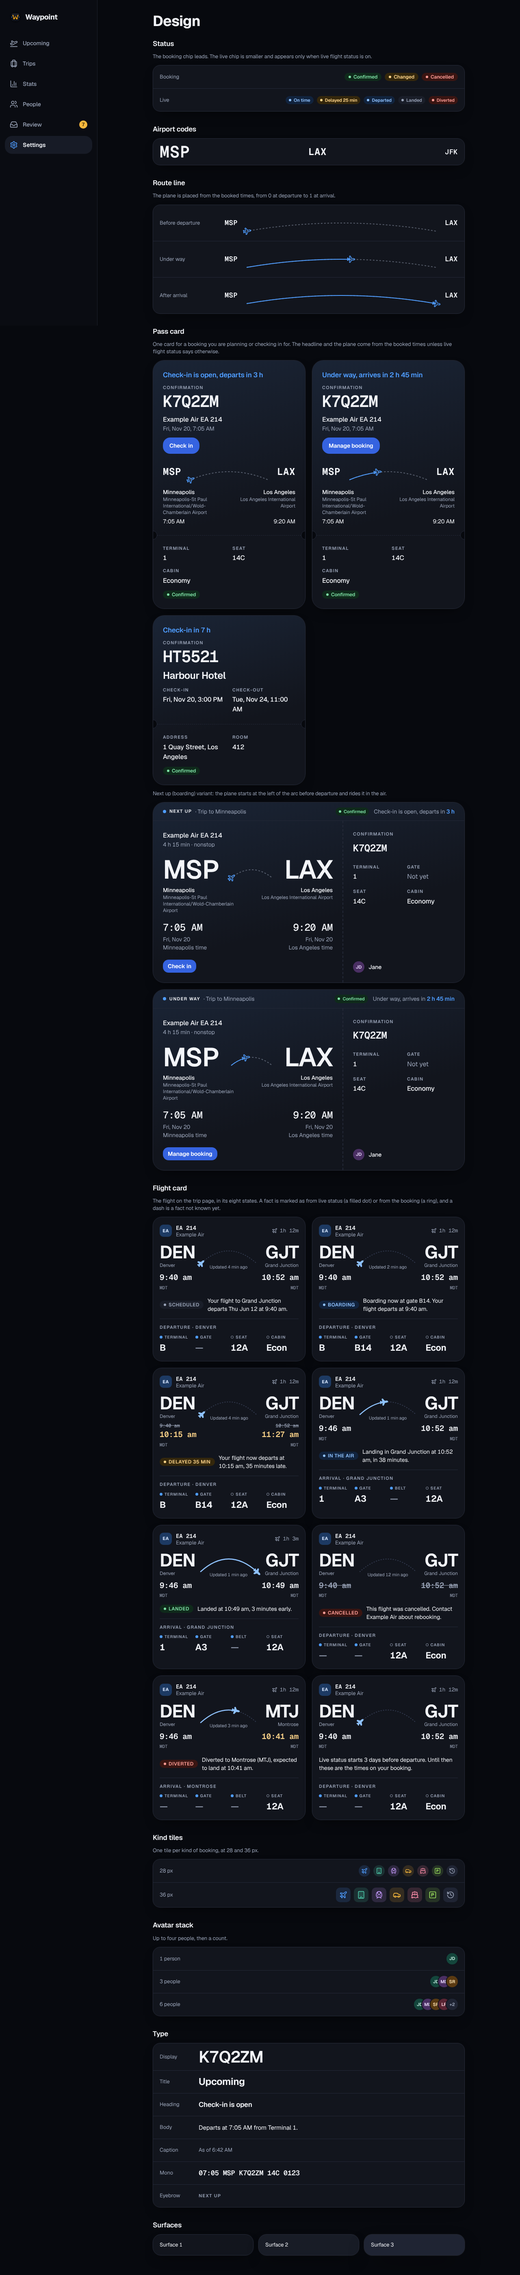
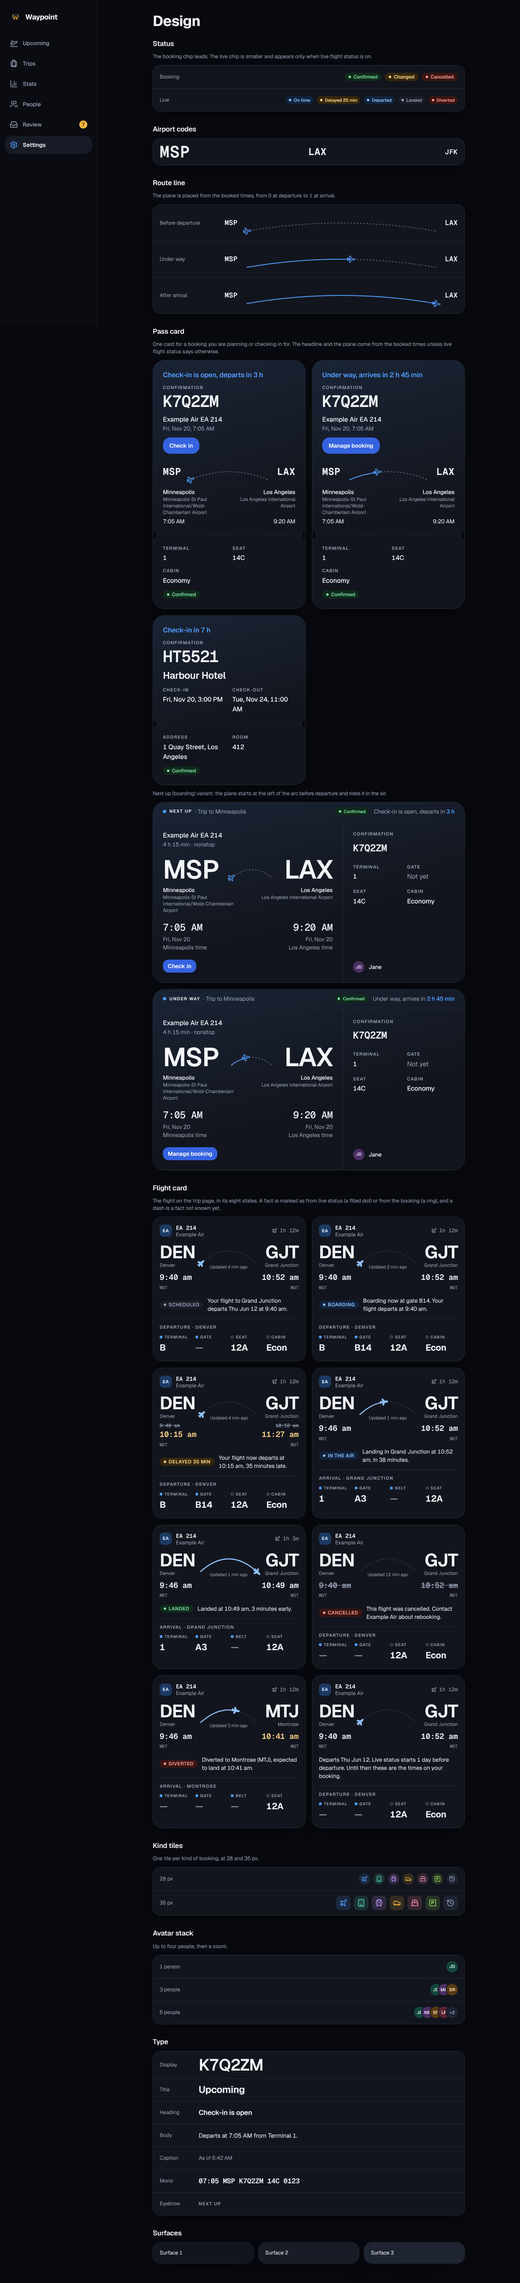
fix: one day for live status, and the card's date, stale status, past trips and paused line
The owner decided the live-status window is one day before departure (LIVE_STATUS_STARTS_DAYS is 1), accepted the boarding proxy, the parts the frames don't draw, and a quiet "Live updates paused" line on the card; the design README records the decisions.

- The no-live-data sentence keeps the departure date ("Departs Thu Jun 12.") before the explanation.
- A stored status over three hours old, or one read while offline, no longer feeds the times, the sentence or boarding: the booked times are used throughout.
- A past trip's pass card gets an empty live override again, so a kept final status adds no live chip, gate or as-of line.
- The card shows "Live updates paused until <time>" with the reason while fetching is paused, whether or not a status is stored.

Claude-Session: https://claude.ai/code/session_01VkTLMaRYAHGUMQLTkxcTjb

diff --git a/docs/design/flights/a-flight-card.html b/docs/design/flights/a-flight-card.html
@@ -232,7 +232,7 @@ body.desk .dev.panel { height: 800px; }
  <div class="route"><div class="ap"><b class="code">DEN</b><span class="city">Denver</span><span class="time ">9:40 am</span><span class="tz">MDT</span></div>
  <div class="arc"><svg aria-hidden="true" viewBox="0 0 100 40" preserveAspectRatio="none"><path d="M2 38 Q50 -16 98 38" fill="none" stroke="#343c52" stroke-width="2" stroke-linecap="round" stroke-dasharray="1 5" vector-effect="non-scaling-stroke"></path><path d="M2 38 Q50 -16 98 38" pathLength="100" fill="none" stroke="#8fc2ff" stroke-width="2.5" stroke-linecap="round" stroke-dasharray="0 100" vector-effect="non-scaling-stroke"></path></svg><span class="plane" aria-hidden="true" style="left:3.9%;top:41.3px;transform:translate(-50%,-50%) rotate(50deg)"><svg class="ic" aria-hidden="true" viewBox="0 0 24 24" style="width:20px;height:20px;fill:currentColor;stroke:none"><path d="M21 16v-2l-8-5V3.5a1.5 1.5 0 0 0-3 0V9l-8 5v2l8-2.5V19l-2 1.5V22l3.5-1 3.5 1v-1.5L13 19v-5.5z"></path></svg></span></div>
  <div class="ap r"><b class="code">GJT</b><span class="city">Grand Junction</span><span class="time ">10:52 am</span><span class="tz">MDT</span></div></div>
- <div class="status"><p>Live status starts 3 days before departure. Until then these are the times on your booking.</p></div>
+ <div class="status"><p>Live status starts 1 day before departure. Until then these are the times on your booking.</p></div>
  <div style="display:flex;flex-direction:column;gap:8px;border-top:1px solid var(--border);padding-top:12px"><span class="eyebrow">Departure · Denver</span><dl class="facts"><div><dt><i class="src live" role="img" aria-label="From live status"></i>Terminal</dt><dd class="na"><span aria-hidden="true">—</span><span class="sr">Not known yet</span></dd></div><div><dt><i class="src live" role="img" aria-label="From live status"></i>Gate</dt><dd class="na"><span aria-hidden="true">—</span><span class="sr">Not known yet</span></dd></div><div><dt><i class="src book" role="img" aria-label="From the booking"></i>Seat</dt><dd class="">12A</dd></div><div><dt><i class="src book" role="img" aria-label="From the booking"></i>Cabin</dt><dd class="">Econ</dd></div></dl></div></article></div></div></figure><figure class="fig" data-w="desk"><figcaption>a3 · Desktop: the same eight cards, two across</figcaption><div class="dev frag"><div class="board wide" style="padding:28px 32px;gap:18px"><div class="legend"><span><i class="src live" role="img" aria-label="From live status"></i>From live status</span><span><i class="src book" role="img" aria-label="From the booking"></i>From the booking</span><span class="mono">— not known yet</span></div><div class="deskgrid"><article class="fc" aria-label="EA 214, Denver to Grand Junction, scheduled, departs Thu Jun 12 at 9:40 am"><div class="fc-top"><span class="mark" aria-hidden="true">EA</span><span><b class="num">EA 214</b><span class="meta" style="display:block;line-height:1.1">Example Air</span></span><span class="dur"><svg class="ic" aria-hidden="true" viewBox="0 0 24 24" style="width:14px;height:14px"><path d="M21 16v-2l-8-5V3.5a1.5 1.5 0 0 0-3 0V9l-8 5v2l8-2.5V19l-2 1.5V22l3.5-1 3.5 1v-1.5L13 19v-5.5z" style="transform:rotate(90deg);transform-origin:12px 12px"></path></svg>1h 12m</span></div>
  <div class="route"><div class="ap"><b class="code">DEN</b><span class="city">Denver</span><span class="time ">9:40 am</span><span class="tz">MDT</span></div>
  <div class="arc"><svg aria-hidden="true" viewBox="0 0 100 40" preserveAspectRatio="none"><path d="M2 38 Q50 -16 98 38" fill="none" stroke="#343c52" stroke-width="2" stroke-linecap="round" stroke-dasharray="1 5" vector-effect="non-scaling-stroke"></path><path d="M2 38 Q50 -16 98 38" pathLength="100" fill="none" stroke="#8fc2ff" stroke-width="2.5" stroke-linecap="round" stroke-dasharray="0 100" vector-effect="non-scaling-stroke"></path></svg><span class="plane" aria-hidden="true" style="left:3.9%;top:41.3px;transform:translate(-50%,-50%) rotate(61deg)"><svg class="ic" aria-hidden="true" viewBox="0 0 24 24" style="width:20px;height:20px;fill:currentColor;stroke:none"><path d="M21 16v-2l-8-5V3.5a1.5 1.5 0 0 0-3 0V9l-8 5v2l8-2.5V19l-2 1.5V22l3.5-1 3.5 1v-1.5L13 19v-5.5z"></path></svg></span><span class="upd">Updated 4 min ago</span></div>
@@ -272,7 +272,7 @@ body.desk .dev.panel { height: 800px; }
  <div class="route"><div class="ap"><b class="code">DEN</b><span class="city">Denver</span><span class="time ">9:40 am</span><span class="tz">MDT</span></div>
  <div class="arc"><svg aria-hidden="true" viewBox="0 0 100 40" preserveAspectRatio="none"><path d="M2 38 Q50 -16 98 38" fill="none" stroke="#343c52" stroke-width="2" stroke-linecap="round" stroke-dasharray="1 5" vector-effect="non-scaling-stroke"></path><path d="M2 38 Q50 -16 98 38" pathLength="100" fill="none" stroke="#8fc2ff" stroke-width="2.5" stroke-linecap="round" stroke-dasharray="0 100" vector-effect="non-scaling-stroke"></path></svg><span class="plane" aria-hidden="true" style="left:3.9%;top:41.3px;transform:translate(-50%,-50%) rotate(61deg)"><svg class="ic" aria-hidden="true" viewBox="0 0 24 24" style="width:20px;height:20px;fill:currentColor;stroke:none"><path d="M21 16v-2l-8-5V3.5a1.5 1.5 0 0 0-3 0V9l-8 5v2l8-2.5V19l-2 1.5V22l3.5-1 3.5 1v-1.5L13 19v-5.5z"></path></svg></span></div>
  <div class="ap r"><b class="code">GJT</b><span class="city">Grand Junction</span><span class="time ">10:52 am</span><span class="tz">MDT</span></div></div>
- <div class="status"><p>Live status starts 3 days before departure. Until then these are the times on your booking.</p></div>
+ <div class="status"><p>Live status starts 1 day before departure. Until then these are the times on your booking.</p></div>
  <div style="display:flex;flex-direction:column;gap:8px;border-top:1px solid var(--border);padding-top:12px"><span class="eyebrow">Departure · Denver</span><dl class="facts"><div><dt><i class="src live" role="img" aria-label="From live status"></i>Terminal</dt><dd class="na"><span aria-hidden="true">—</span><span class="sr">Not known yet</span></dd></div><div><dt><i class="src live" role="img" aria-label="From live status"></i>Gate</dt><dd class="na"><span aria-hidden="true">—</span><span class="sr">Not known yet</span></dd></div><div><dt><i class="src book" role="img" aria-label="From the booking"></i>Seat</dt><dd class="">12A</dd></div><div><dt><i class="src book" role="img" aria-label="From the booking"></i>Cabin</dt><dd class="">Economy</dd></div></dl></div></article></div></div></div></figure></div></div>
     <div class="spec"><div><h3>Accessible names</h3><ul><li>Each card is an <code>article</code> named in one phrase with the flight, route and state: <q>EA 214, Denver to Grand Junction, delayed 35 minutes, now departs 10:15 am</q>.</li><li>The arc, the plane marker and the Waypoint mark tile are decorative (<code>aria-hidden</code>); the progress is in the sentence (<q>Landing in Grand Junction at 10:52 am, in 38 minutes</q>).</li><li>Each fact is a term and a value in a <code>dl</code>. The source dot is an image named <q>From live status</q> or <q>From the booking</q>; an unknown value reads <q>Not known yet</q> (the dash is hidden from the reader).</li><li>A struck-through time reads <q>Originally 9:40 am</q> before the new time. The status pill is text, not colour alone.</li><li><q>Updated 4 min ago</q> is plain text between the times; when there is no live data it is not rendered.</li></ul></div><div><h3>Tokens and components</h3><ul><li>Card: <code>rounded-[22px] border border-border bg-card shadow-card</code>, the same as the trip cards. Codes <code>38px/44px</code> semibold, tracking <code>-0.03em</code>; times and flight number in Geist Mono.</li><li>Status pill: <code>StatusChip</code> tones: quiet (Scheduled, no live data), info (Boarding, In the air), warn (Delayed, amber <code>--signal-ink</code> times), ok (Landed), bad (Cancelled, Diverted).</li><li>Mark tile: Waypoint's own mark with the flight's two-letter carrier code in <code>--avatar-1</code>, never an airline logo. Source dots: filled <code>--primary</code> for live status, a hollow <code>--muted-foreground</code> ring for the booking.</li><li>No new token. Dark only.</li></ul></div><div><h3>Replaces</h3><ul><li>The flight view of <code>frontend/src/lib/components/PassCard.svelte</code> on the trip page and the <code>FlightStatus.svelte</code> block it renders (the <code>Terminal X · Gate Y</code> lines and the Refresh button).</li><li>Gate, terminal and belt come from the status the app already carries (<code>dep_gate</code>, <code>arr_gate</code>, <code>dep_terminal</code>, <code>arr_terminal</code>); where a value is not held the card shows a dash. Seat and cabin stay the booking's (<code>details</code>).</li><li>A trip that is over keeps the completed-trip designs (<a href="../trips/README.md">trips README</a>): gate and live status stay hidden there; whether the card stays after landing is an open question in the README.</li></ul></div></div>
   </section>

diff --git a/frontend/src/lib/components/FlightCard.svelte.test.ts b/frontend/src/lib/components/FlightCard.svelte.test.ts
@@ -66,7 +66,7 @@ const CASES: Case[] = [
     pill: "Diverted", sentence: "Diverted to Montrose (MTJ), expected to land at 10:41 am.", times: ["9:46 am", "10:41 am"], updated: "Updated 3 min ago",
     facts: [["Terminal", "—Not known yet"], ["Gate", "—Not known yet"], ["Belt", "—Not known yet"], ["Seat", "12A"]] },
   { name: "scheduled with no live data", now: NOW.none, label: "EA 214, Denver to Grand Junction, scheduled, no live status yet", pill: null,
-    sentence: "Live status starts 3 days before departure. Until then these are the times on your booking.", times: ["9:40 am", "10:52 am"], updated: null,
+    sentence: "Departs Thu Jun 12. Live status starts 1 day before departure. Until then these are the times on your booking.", times: ["9:40 am", "10:52 am"], updated: null,
     facts: [["Terminal", "—Not known yet"], ["Gate", "—Not known yet"], ["Seat", "12A"], ["Cabin", "EconEconomy"]] },
 ];
 
@@ -211,16 +211,16 @@ describe("the four facts", () => {
 
 describe("what the card says without live data", () => {
   it("has no Updated line and no pill, and names the window as a constant", async () => {
-    expect(LIVE_STATUS_STARTS_DAYS).toBe(3);
+    expect(LIVE_STATUS_STARTS_DAYS).toBe(1);
     draw(CASES[7]);
     const card = await screen.findByRole("article");
     expect(card.querySelector("[data-updated]")).toBeNull();
     expect(card.querySelector("[data-tone]")).toBeNull();
-    expect(within(card).getByText(/^Live status starts 3 days before departure\./)).toBeInTheDocument();
+    expect(within(card).getByText(/^Departs Thu Jun 12\. Live status starts 1 day before departure\./)).toBeInTheDocument();
   });
 
   it("says Scheduled instead once the flight is inside the window, with nothing invented", async () => {
-    draw({ now: at("2025-06-10T09:40") });
+    draw({ now: at("2025-06-11T12:00") });
     const card = await screen.findByRole("article");
     expect(within(card).getByText("Scheduled")).toBeInTheDocument();
     expect(card.querySelector("[data-updated]")).toBeNull();
@@ -248,6 +248,44 @@ describe("what the card says without live data", () => {
   it("puts the day on a landed flight from an earlier day", async () => {
     draw({ now: at("2025-06-14T09:00") });
     expect(within(await screen.findByRole("article")).getByText("Landed Thu Jun 12 at 10:52 am.")).toBeInTheDocument();
+  });
+});
+
+describe("a stored status that is too old to trust", () => {
+  it("shows the booked times and sentence, not the old estimate, when it is over three hours old", async () => {
+    const old = status(at("2025-06-12T11:00"), 300, { state: "delayed", dep_estimated: "2025-06-12T10:15", arr_estimated: "2025-06-12T11:27", delay_minutes: 35 });
+    draw({ now: at("2025-06-12T11:00"), status: old });
+    const card = await screen.findByRole("article");
+    expect(within(card).getByText("Landed at 10:52 am.")).toBeInTheDocument();
+    expect(times(card)).toEqual(["9:40 am MDT", "10:52 am MDT"]);
+    expect(card.textContent).not.toContain("11:27");
+    expect(within(card).getByText("Updated 5 h ago")).toBeInTheDocument();
+  });
+
+  it("does the same when the device is offline", async () => {
+    draw({ now: NOW.delayed, status: CASES[2].status }, { online: false });
+    const card = await screen.findByRole("article");
+    expect(times(card)).toEqual(["9:40 am MDT", "10:52 am MDT"]);
+    expect(card.textContent).not.toMatch(/Originally|Delayed/);
+  });
+});
+
+describe("when live updates are paused", () => {
+  it("says so in one quiet line, with or without a stored status, and says nothing otherwise", async () => {
+    const until = new Date(Date.UTC(2025, 5, 13, 15, 30)).toISOString();
+    const first = draw(CASES[0], { paused: { until, reason: "rate" } });
+    let card = await screen.findByRole("article");
+    expect(card.querySelector("[data-paused]")).toHaveAttribute("role", "status");
+    expect(card.querySelector("[data-paused]")).toHaveTextContent(/^Live updates paused until .+ \(rate limit\)$/);
+    first.unmount();
+    draw(CASES[7], { paused: { until, reason: "limit" } });
+    card = await screen.findByRole("article");
+    expect(card.querySelector("[data-paused]")).toHaveTextContent(/\(monthly limit\)$/);
+  });
+
+  it("shows no line when nothing is paused", async () => {
+    draw(CASES[0]);
+    expect((await screen.findByRole("article")).querySelector("[data-paused]")).toBeNull();
   });
 });
 

diff --git a/frontend/src/lib/flightcard.ts b/frontend/src/lib/flightcard.ts
@@ -1,8 +1,8 @@
-import type { FlightStatus, Segment } from "./api-types";
+import type { FlightStatus, FlightStatusPause, Segment } from "./api-types";
 import { liveChip, type Chip } from "./status";
-import { clock, dayIn, dayLabel, daysBetween, dayShiftWords, flightEvidence, flightProgress, instant, seatsInOrder } from "./trips";
+import { clock, dayIn, dayLabel, daysBetween, dayShiftWords, flightEvidence, flightProgress, instant, LIVE_STALE_HOURS, seatsInOrder } from "./trips";
 
-export const LIVE_STATUS_STARTS_DAYS = 3;
+export const LIVE_STATUS_STARTS_DAYS = 1;
 export const BOARDING_MINUTES = 40;
 
 const DAY_MS = 86_400_000;
@@ -111,16 +111,20 @@ export function flightCardView(input: FlightCardInput): FlightCardView {
   const bookedDep = instant(s.start_local, s.start_zone);
   const bookedArr = instant(s.end_local, s.end_zone);
   const evidence = s.status === "cancelled" ? "cancelled" : flightEvidence(st, now, online);
-  const liveDep = st ? st.dep_actual ?? st.dep_estimated : null;
-  const liveArr = st ? st.arr_actual ?? st.arr_estimated : null;
+  const FINAL = ["landed", "cancelled", "diverted"];
+  const fetched = st ? Date.parse(st.fetched_at) : NaN;
+  const stale = !!st && !FINAL.includes(st.state) && (!online || Number.isNaN(fetched) || now - fetched > LIVE_STALE_HOURS * 3_600_000);
+  const fresh = stale ? undefined : st;
+  const liveDep = fresh ? fresh.dep_actual ?? fresh.dep_estimated : null;
+  const liveArr = fresh ? fresh.arr_actual ?? fresh.arr_estimated : null;
   const depLocal = liveDep ?? s.start_local;
-  const depZone = liveDep && st ? st.dep_zone : s.start_zone;
+  const depZone = liveDep && fresh ? fresh.dep_zone : s.start_zone;
   const arrLocal = liveArr ?? s.end_local;
-  const arrZone = liveArr && st ? st.arr_zone : s.end_zone;
+  const arrZone = liveArr && fresh ? fresh.arr_zone : s.end_zone;
   const depAt = instant(depLocal, depZone);
   const arrAt = instant(arrLocal, arrZone);
 
-  const gate = st?.dep_gate ?? null;
+  const gate = fresh?.dep_gate ?? null;
   const state: CardState = (() => {
     if (evidence === "cancelled") return "cancelled";
     if (evidence === "diverted") return "diverted";
@@ -129,7 +133,7 @@ export function flightCardView(input: FlightCardInput): FlightCardView {
     if (evidence === "delayed") return "delayed";
     if (now >= bookedArr) return "landed";
     if (now >= bookedDep) return "in-the-air";
-    if (st && gate && now >= depAt - BOARDING_MINUTES * MINUTE_MS && now < depAt) return "boarding";
+    if (fresh && gate && now >= depAt - BOARDING_MINUTES * MINUTE_MS && now < depAt) return "boarding";
     return "scheduled";
   })();
 
@@ -171,7 +175,7 @@ export function flightCardView(input: FlightCardInput): FlightCardView {
   const delayWords = lateBy ? `, ${plural(lateBy, "minute")} late` : "";
 
   const sentence = (() => {
-    if (noLive) return `Live status starts ${plural(LIVE_STATUS_STARTS_DAYS, "day")} before departure. Until then these are the times on your booking.`;
+    if (noLive) return `Departs ${shortDay(depLocal)}. Live status starts ${plural(LIVE_STATUS_STARTS_DAYS, "day")} before departure. Until then these are the times on your booking.`;
     switch (state) {
       case "scheduled": return `Your flight to ${whereTo} departs ${shortDay(depLocal)} at ${depart.time}.`;
       case "boarding": return `Boarding now at gate ${gate}. Your flight departs at ${depart.time}.`;
@@ -264,4 +268,12 @@ export function arcTravelled(progress: number): string {
   const round = (n: number) => Math.round(n * 100) / 100;
   const end = { x: a * ARC.x0 + b * ARC.x1 + c * ARC.x2, y: a * ARC.y0 + b * ARC.y1 + c * ARC.y2 };
   return `M${ARC.x0} ${ARC.y0} Q${round(ARC.x0 + t * (ARC.x1 - ARC.x0))} ${round(ARC.y0 + t * (ARC.y1 - ARC.y0))} ${round(end.x)} ${round(end.y)}`;
+}
+
+export function pausedWords(p: FlightStatusPause): string {
+  const until = new Date(p.until);
+  if (Number.isNaN(until.getTime())) return "Live updates paused";
+  if (p.reason === "limit") return `Live updates paused until ${until.toLocaleDateString(undefined, { month: "short", day: "numeric" })} (monthly limit)`;
+  const time = new Intl.DateTimeFormat(undefined, { hour: "numeric", minute: "2-digit" }).format(until);
+  return `Live updates paused until ${time} (${p.reason === "rate" ? "rate limit" : "the status service didn’t accept the key"})`;
 }

diff --git a/frontend/src/lib/components/FlightCard.svelte b/frontend/src/lib/components/FlightCard.svelte
@@ -1,14 +1,14 @@
 <script lang="ts">
   import type { Snippet } from "svelte";
   import Plane from "@lucide/svelte/icons/plane";
-  import type { FlightStatus, Segment } from "$lib/api-types";
+  import type { FlightStatus, FlightStatusPause, Segment } from "$lib/api-types";
   import { airportInfo } from "$lib/airport-zones";
   import StatusChip from "$lib/components/StatusChip.svelte";
   import { headline } from "$lib/trips";
-  import { arcHeading, arcPoint, arcTravelled, flightCardView, type Stamp } from "$lib/flightcard";
+  import { arcHeading, arcPoint, arcTravelled, flightCardView, pausedWords, type Stamp } from "$lib/flightcard";
 
-  type Props = { segment: Segment; status?: FlightStatus; liveOn?: boolean; now?: number; online?: boolean; highlight?: boolean; level?: 2 | 3; footer?: Snippet };
-  let { segment, status, liveOn = false, now = Date.now(), online = true, highlight = false, level = 2, footer }: Props = $props();
+  type Props = { segment: Segment; status?: FlightStatus; liveOn?: boolean; now?: number; online?: boolean; highlight?: boolean; level?: 2 | 3; paused?: FlightStatusPause | null; footer?: Snippet };
+  let { segment, status, liveOn = false, now = Date.now(), online = true, highlight = false, level = 2, paused = null, footer }: Props = $props();
 
   let cities = $state<Record<string, string>>({});
   $effect(() => {
@@ -79,6 +79,8 @@
     {#if view.pill}<StatusChip chip={view.pill} class="uppercase tracking-[0.04em]" />{/if}
     <p class="min-w-0 flex-[1_1_180px] text-sm" data-sentence>{view.sentence}</p>
   </div>
+
+  {#if paused}<p class="text-xs text-muted-foreground" role="status" data-paused>{pausedWords(paused)}</p>{/if}
 
   <div class="flex flex-col gap-2 border-t border-border pt-3">
     <span class="eyebrow">{view.side}{sideCity ? ` · ${sideCity}` : ""}</span>

diff --git a/frontend/src/pages/Trip.svelte b/frontend/src/pages/Trip.svelte
@@ -337,7 +337,7 @@
       {@const s = card.lead}
       {#if flightCard(card)}
         <li id={`segment-${s.id}`} class="scroll-mt-20" data-flight-card>
-          <FlightCard segment={s} status={liveOn ? statusFor(s.id) : undefined} {liveOn} {now} online={typeof navigator === "undefined" || navigator.onLine !== false} highlight={wanted === String(s.id)}>
+          <FlightCard segment={s} status={liveOn ? statusFor(s.id) : undefined} {liveOn} {now} online={typeof navigator === "undefined" || navigator.onLine !== false} highlight={wanted === String(s.id)} paused={liveOn ? flightStatus.list?.paused : null}>
             {#snippet footer()}
               {#if card.segments.length === 1}
                 {@render flightBooking(s)}
@@ -354,6 +354,7 @@
         <PassCard as="li" id={`segment-${s.id}`} highlight={wanted === String(s.id)} segment={s} {now} level={2} eyebrow={eyebrowOf(s)} showApp={false} omit={omitted(s)}>
           {#snippet times()}<dl class="grid grid-cols-1 gap-3 text-sm sm:grid-cols-2">{@render timeRows(s)}</dl>{/snippet}
           {#snippet details()}{@render ports(s)}{@render links(s)}{/snippet}
+          {#snippet live()}{/snippet}
           {#snippet footer()}
             {@render singleFooter(s)}
           {/snippet}
@@ -368,6 +369,7 @@
               <dl class="grid grid-cols-1 gap-3 text-sm sm:grid-cols-2">{@render timeRows(s)}</dl>
             {/if}
           {/snippet}
+          {#snippet live()}{/snippet}
           {#snippet footer()}
             {@render multiFooter(card)}
           {/snippet}

diff --git a/frontend/src/pages/Trip.svelte.test.ts b/frontend/src/pages/Trip.svelte.test.ts
@@ -73,6 +73,18 @@ describe("Trip", () => {
     expect(within(cards[1]).queryByText(/Updated /)).toBeNull();
   });
 
+  it("says when live updates are paused on the flight card, with no status stored for it", async () => {
+    vi.useFakeTimers({ toFake: ["Date"] });
+    vi.setSystemTime(Date.UTC(2026, 10, 20, 14, 30));
+    const answer = vi.mocked(api).getMockImplementation()!;
+    const paused = { ...delayed, statuses: [], paused: { until: "2026-12-01T00:00:00+00:00", reason: "limit" } };
+    vi.mocked(api).mockImplementation(async (path, opts) => (path === "/api/flight-status" ? paused : answer(path, opts)) as never);
+    render(TripPage);
+    const cards = within(await screen.findByRole("list", { name: "Bookings" })).getAllByRole("listitem").filter(isCard);
+    expect(await within(cards[0]).findByRole("status")).toHaveTextContent(/^Live updates paused until (Nov|Dec) \d+ \(monthly limit\)$/);
+    expect(within(cards[1]).queryByRole("status")).toBeNull();
+  });
+
   it("updates a flight’s card from the stored status on its own, without a reload", async () => {
     vi.useFakeTimers({ toFake: ["setInterval", "clearInterval", "Date"] });
     vi.setSystemTime(Date.UTC(2026, 10, 20, 23, 30));

diff --git a/docs/src/content/docs/start/trips.md b/docs/src/content/docs/start/trips.md
@@ -21,7 +21,7 @@ With no trips yet, Upcoming says what to do next: **Connect Gmail**, **Add a boo
 
 ![Trips on a desktop: the list of trips beside the selected trip's timeline of pass cards](../../../assets/screenshots/trips-desktop-hero.png)
 
-A **trip page** is a timeline of cards, one per booking, with the trip’s travellers listed once under its title. A flight on a trip that isn’t over is a **flight card**: the two airports as large codes with a dotted arc and a plane at how far along the flight is, the flight number and total duration above, and each time under its airport with that airport’s zone, never converted (a landing on a later day says so). A delay turns the times amber, with the booked time struck through above the new one. A pill says the state in one word (Scheduled, Boarding, Delayed, In the air, Landed, Cancelled or Diverted) and a plain sentence says what it means, with “Updated N min ago” between the times when [live flight status](/Waypoint/start/flight-status/) has an answer for the flight. Four facts sit under it in big type: Terminal, Gate, Seat and Cabin before departure, and the arrival side (Terminal, Gate, Belt and Seat) in the air and once landed. A filled dot marks a fact that came from live status and a hollow ring one from the booking; a fact Waypoint doesn’t hold shows a dash, and a screen reader hears “Not known yet”. Boarding shows when live status has a gate and the flight leaves within 40 minutes, since the status service doesn’t say it. Until live status starts, 3 days before departure, the card says so and shows the booked times; it never invents a gate or a delay. The confirmation code, cost, travellers and the booking’s actions stay under the facts. A flight’s card lists each traveller with their seat; a hotel, rental car or cruise shows a **Loyalty** line with the masked number of each traveller who has one for that chain or line (tap to reveal and copy). A flight shows no frequent-flyer number, since it was used when the flight was booked; the household’s numbers are on [People](/Waypoint/start/people/). Bookings for bundled brands show the brand’s [logo](/Waypoint/start/logos/). Between the route map and the bookings, a trip page shows the trip’s [photos](/Waypoint/start/photos/#on-a-trip): a strip that opens into a gallery by day and a viewer, with the card that asks whether to [share your own photos](/Waypoint/start/photos/#on-the-trip-page) on the trip and, once you have, **Your photos on this trip**.
+A **trip page** is a timeline of cards, one per booking, with the trip’s travellers listed once under its title. A flight on a trip that isn’t over is a **flight card**: the two airports as large codes with a dotted arc and a plane at how far along the flight is, the flight number and total duration above, and each time under its airport with that airport’s zone, never converted (a landing on a later day says so). A delay turns the times amber, with the booked time struck through above the new one. A pill says the state in one word (Scheduled, Boarding, Delayed, In the air, Landed, Cancelled or Diverted) and a plain sentence says what it means, with “Updated N min ago” between the times when [live flight status](/Waypoint/start/flight-status/) has an answer for the flight. Four facts sit under it in big type: Terminal, Gate, Seat and Cabin before departure, and the arrival side (Terminal, Gate, Belt and Seat) in the air and once landed. A filled dot marks a fact that came from live status and a hollow ring one from the booking; a fact Waypoint doesn’t hold shows a dash, and a screen reader hears “Not known yet”. Boarding shows when live status has a gate and the flight leaves within 40 minutes, since the status service doesn’t say it. Until live status starts, 1 day before departure, the card gives the departure date, says so and shows the booked times; a status older than 3 hours, or one read while the device is offline, is not used for the times or the sentence; a quiet line says when live updates are paused (monthly limit, rate limit or a refused key); it never invents a gate or a delay. The confirmation code, cost, travellers and the booking’s actions stay under the facts. A flight’s card lists each traveller with their seat; a hotel, rental car or cruise shows a **Loyalty** line with the masked number of each traveller who has one for that chain or line (tap to reveal and copy). A flight shows no frequent-flyer number, since it was used when the flight was booked; the household’s numbers are on [People](/Waypoint/start/people/). Bookings for bundled brands show the brand’s [logo](/Waypoint/start/logos/). Between the route map and the bookings, a trip page shows the trip’s [photos](/Waypoint/start/photos/#on-a-trip): a strip that opens into a gallery by day and a viewer, with the card that asks whether to [share your own photos](/Waypoint/start/photos/#on-the-trip-page) on the trip and, once you have, **Your photos on this trip**.
 
 ## Adding and editing
 

diff --git a/docs/design/flights/README.md b/docs/design/flights/README.md
@@ -18,7 +18,7 @@ Each page says what it replaces: the flight view of `frontend/src/lib/components
 - "Updated N min ago" sits between the times, and is omitted when there is no live data.
 - A status pill and one plain sentence give the state (Scheduled, Boarding, Delayed 35 min, In the air, Landed, Cancelled, Diverted).
 - Four facts in big type with small-caps labels: before departure Terminal, Gate, Seat, Cabin; in the air and landed Terminal, Gate, Belt, Seat (the arrival side). Each is marked as from live status (a filled blue dot) or from the booking (a hollow grey ring). An unknown value shows a dash; the row is never left out.
-- Eight states: scheduled, boarding, delayed, in the air, landed, cancelled, diverted, and scheduled with no live data. With no live data the card says live status starts 3 days before departure (the number of days is a placeholder to confirm against the data source) and shows the times on the booking.
+- Eight states: scheduled, boarding, delayed, in the air, landed, cancelled, diverted, and scheduled with no live data. With no live data the card says live status starts 1 day before departure (decided by the owner on 2026-11-16, down from the 3 the frames first showed) and shows the times on the booking.
 - The live status view: a big route, the headline "Landing in 38 minutes", a progress bar, a departed / in the air / lands timeline, big arrival facts (Terminal, Gate, Belt), seats per traveller from the booking, and Refresh with when the data was last updated.
 - Where else a flight appears: a Home next-flight card, flight rows in the trip list (kind tile, "DEN to GJT · EA 214", time, status chip) and the booking on the trip page with a one-line progress bar. Each opens the live status view.
 - Seat and cabin come from the booking. Terminal, gate, belt, delay, and the actual times come from live status.
@@ -27,10 +27,18 @@ Each page says what it replaces: the flight view of `frontend/src/lib/components
 ## Open questions for the owner
 
 1. Which gate, terminal and belt data exists (see [flight-gates.md](../flight-gates.md), #635 and #638)? Until the data source lands, some facts stay dashes, and the dash is a designed state, not a bug.
-2. Live status starts "3 days before departure" in the no-live-data card: confirm the window against what the status source and its monthly request limit allow.
-3. "Econ" on phone versus "Economy": the phone card abbreviates so four facts fit across; confirm, or use a shorter fact for cabin.
+2. Live status starts "1 day before departure" in the no-live-data card. Decided by the owner on 2026-11-16: the window is one day (`LIVE_STATUS_STARTS_DAYS` in `frontend/src/lib/flightcard.ts`).
+3. "Econ" on phone versus "Economy": the phone card abbreviates so four facts fit across. Decided by the owner on 2026-11-16: keep it as the frames show (the build follows the card's width).
 4. The arc and plane geometry on very short flights (under an hour, the plane sits close to the codes) and very long ones (the arc is a drawing, not a route): is a straight dotted line better for either?
 5. Does a landed flight keep showing the card on the trip page after it lands, or fall back to the plain booking once the trip is over (the completed-trip designs hide gate and live status)?
+
+## Owner decisions on the build (#714, 2026-11-16)
+
+- Boarding, which the status source does not report, is derived: a live status with a gate and departure within 40 minutes.
+- The parts the frames don't draw are accepted as built: "+1 day" after an overnight arrival, the day in the sentence when the flight is not today, booked times for a flight with no live status, the booking's terminal (with the ring) when live status has none, and the confirmation code, travellers and Edit, Move and Remove under the facts.
+- The trip page's card has no Refresh button; Refresh moves to the live status view (#715). A small quiet line, "Live updates paused until <time>" with the reason, stays on the card while updates are paused (monthly limit, rate limit or a refused key), whether or not a status is stored. The frames don't show it.
+- With no live status yet, the card keeps the departure date ("Departs Thu Jun 12.") before the sentence about when live status starts.
+- The live-status window is one day before departure.
 
 ## Fonts
 

diff --git a/docs/src/content/docs/start/flight-status.md b/docs/src/content/docs/start/flight-status.md
@@ -37,7 +37,7 @@ A plan allows few calls a month, so Waypoint spends them carefully:
 - **A late flight keeps being checked.** When an answer says the flight will leave later, Waypoint also checks 1 hour and 20 minutes before the new time, and at the new arrival time instead of the booked one. Once a flight should have left (or landed) and the last answer doesn’t say it has, it is checked every 15 minutes for two hours, then every hour, until it does or until 6 hours after its arrival. A delay announced after the last check before departure is picked up at the booked departure time. A typical delayed flight costs 8 or 9 calls; one the service never reports as departed or landed costs at most about 20 (a one-hour flight) to 35 (a twelve-hour flight).
 - **What the web app shows updates itself.** While a flight is within a day of departure, in the air or up to 6 hours after landing, an open trip page or Upcoming re-reads the status Waypoint holds every minute, and again when you come back to the app or the window. This reads only what Waypoint already has: the browser never asks the status service, and it costs no calls.
 - **Outages cost nothing extra.** The 15-minute and hourly checks follow a good answer. Once a call fails, or when none is held (the service doesn’t know the flight, or Waypoint restarted), only the scheduled checks are made (with a known delay, the ones before the new time too) until one of them gets an answer, and the card keeps showing the last answer meanwhile. After downtime Waypoint makes up only the latest check it missed, and a failed call still uses up its check, so an outage never causes repeated retries.
-- **Refresh** on a flight’s card on Upcoming fetches now (the flight card on a trip page shows what Waypoint holds and has no Refresh), unless the answer it holds is under 15 minutes old or the flight’s final status is already kept. A Refresh that fetches counts against the budget.
+- **Refresh** on a flight’s card on Upcoming fetches now (the flight card on a trip page shows what Waypoint holds and has no Refresh, and shows a quiet “Live updates paused” line while fetching is paused), unless the answer it holds is under 15 minutes old or the flight’s final status is already kept. A Refresh that fetches counts against the budget.
 - **A monthly counter** (reset on the 1st, in Waypoint’s time zone `TZ`) shows in **Settings** as “Flight status: N of 400 calls used this month”. At 90% of the limit, every check stops except the one-hour check (no late-flight checks either), and Refresh still works. At 100%, nothing is fetched and the card says “Live status paused until <date> (monthly limit)”.
 - **A 429 from RapidAPI** (too many requests), or a key it refuses, pauses fetching for an hour, and the card says so. Fixing the key and restarting Waypoint ends a refused-key pause at once.
 

diff --git a/docs/src/content/docs/contributing/design.md b/docs/src/content/docs/contributing/design.md
@@ -76,7 +76,7 @@ The headline, the plane and the Next up card follow set rules:
 
 `FlightCard.svelte` is the card a flight has on the trip page while its trip isn’t over; other kinds, and a flight on a trip that is over, an untimed flight or a cancelled booking, keep the pass card. The design is `docs/design/flights/a-flight-card.html`, signed off on #666. `flightCardView` in `frontend/src/lib/flightcard.ts` works out everything it shows from the segment, the flight’s live status (if any) and the clock, so the component only draws:
 
-- **State.** Live evidence (`flightEvidence`) gives landed, cancelled, diverted, delayed and in the air; with none, the booked times decide in the air and landed, and Boarding is a status with a gate within `BOARDING_MINUTES` (40) before departure, because the status service folds boarding into scheduled. With no live status at all and a departure more than `LIVE_STATUS_STARTS_DAYS` (3) away, the card has no pill and says when live status starts.
+- **State.** Live evidence (`flightEvidence`) gives landed, cancelled, diverted, delayed and in the air; with none, the booked times decide in the air and landed, and Boarding is a status with a gate within `BOARDING_MINUTES` (40) before departure, because the status service folds boarding into scheduled. With no live status at all and a departure more than `LIVE_STATUS_STARTS_DAYS` (1) away, the card has no pill and says when live status starts.
 - **Facts.** Four, each with a source: Terminal and Gate from live status (the booking’s own terminal when live status has none), Seat and Cabin from the booking; the arrival side (Terminal, Gate, Belt) in the air and once landed. The status has no belt, so Belt is a dash. An unknown value is a dash with the hidden text “Not known yet”, never a missing row.
 - **Times.** Wall-clock times at their airport with the zone, never converted; a delay shows the booked time struck through above the new one, read as “Originally …”. The accessible name of the article is built in the same function.
 

diff --git a/.claude/skills/verify-waypoint/references/feature-map.md b/.claude/skills/verify-waypoint/references/feature-map.md
@@ -198,7 +198,7 @@ What a person can do in the web app, by page: what is there, how to reach it, ho
 - **Starts at:** `#trips`; goes to: `#design`.
 - **Widths:** phone, desktop.
 - **Touches:** `London`.
-- **Expects to see:** `Trips`, `Landed`, `+1 day`, `50 minutes late`, `Originally`, `Not known yet`, `Flight card`, `Live status starts 3 days before departure`.
+- **Expects to see:** `Trips`, `Landed`, `+1 day`, `50 minutes late`, `Originally`, `Not known yet`, `Flight card`, `Live status starts 1 day before departure`.
 - **Drive it:** `tools/control flow flight-card`; or `poetry run python run.py verify --flow flight-card`.
 
 #### `hotel-address`
